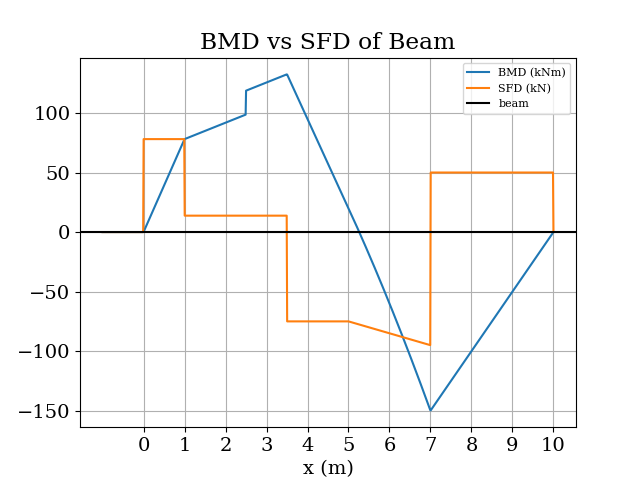
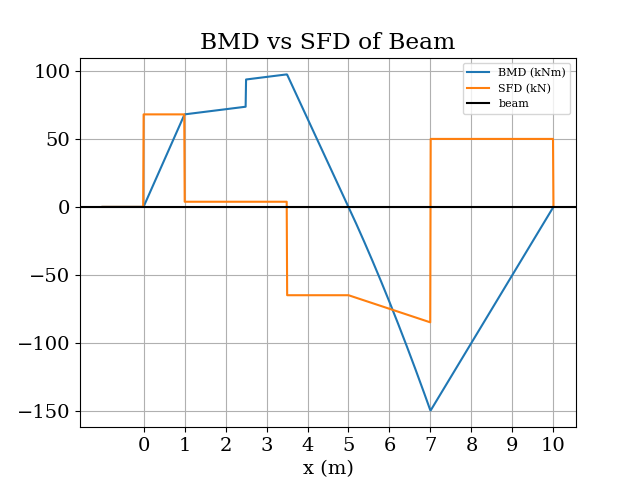
Point Moment missing fixed for moment about hinge

diff --git a/Simply_Supported_Beam/beam.py b/Simply_Supported_Beam/beam.py
@@ -128,12 +128,12 @@ class Beam:
             elif isinstance(mom_gen, Hinge):
                 # dictionary of load separated to left and right of hinge
                 separate_load = {
-                    'l': [mgen for mgen in momgen_list if mgen.pos < mom_gen.pos & ~isinstance(mgen, Hinge)],
+                    'l': [mgen for mgen in momgen_list if mgen.pos < mom_gen.pos],
                     # 'l' = moment generators to left of hinge
-                    'r': [mgen for mgen in momgen_list if mgen.pos > mom_gen.pos & ~isinstance(mgen, Hinge)]
+                    'r': [mgen for mgen in momgen_list if mgen.pos > mom_gen.pos]
                     # 'r' =  moment generators to right of hinge
                 }
-
+                                
                 # now take loads according to side specified in hinge class
                 for side_mom_gen in separate_load[mom_gen.side[0]]:
                     if isinstance(side_mom_gen, PointLoad):
@@ -144,10 +144,16 @@ class Beam:
                                          mom_gen.pos)*side_mom_gen.ry_var
                         if hasattr(side_mom_gen, 'mom_var'):
                             self.m_hinge += side_mom_gen.mom_var
+                    elif isinstance(side_mom_gen, PointMoment):
+                        self.m_hinge += side_mom_gen.mom
                     elif isinstance(side_mom_gen, UDL):
-                        if side_mom_gen.end > mom_gen.pos:
-                            cut_udl = UDL(
-                                side_mom_gen.start, side_mom_gen.loadpm, mom_gen.pos-side_mom_gen.end)
+                        if side_mom_gen.end > mom_gen.pos & side_mom_gen.start<mom_gen.pos:
+                            # cut and take left portion of udl
+                            if mom_gen.side[0]=='l':
+                                cut_udl = UDL(side_mom_gen.start, side_mom_gen.loadpm, mom_gen.pos-side_mom_gen.end)
+                            else:
+                                cut_udl = UDL(mom_gen.pos, side_mom_gen.loadpm, side_mom_gen.end-mom_gen.pos)
+
                             self.m_hinge += cut_udl.netload * \
                                 (cut_udl.pos-mom_gen.pos)
                         else:

diff --git a/Simply_Supported_Beam/page_61_example_2-15.py b/Simply_Supported_Beam/page_61_example_2-15.py
@@ -5,7 +5,7 @@ ra = Reaction(0, 'h', 'A')
 p1 = PointLoad(1,100, inverted=True, inclination=40)
 m1 = PointMoment(2.5,20, ccw=False)
 rd = Reaction(3.5, 'r', 'D')
-h = Hinge(5)
+h = Hinge(5, side='r')
 udl = UDL(5,10,2)
 rf = Reaction(7, 'r', 'F')
 p2 = PointLoad(b.length, 50, inverted=True)
